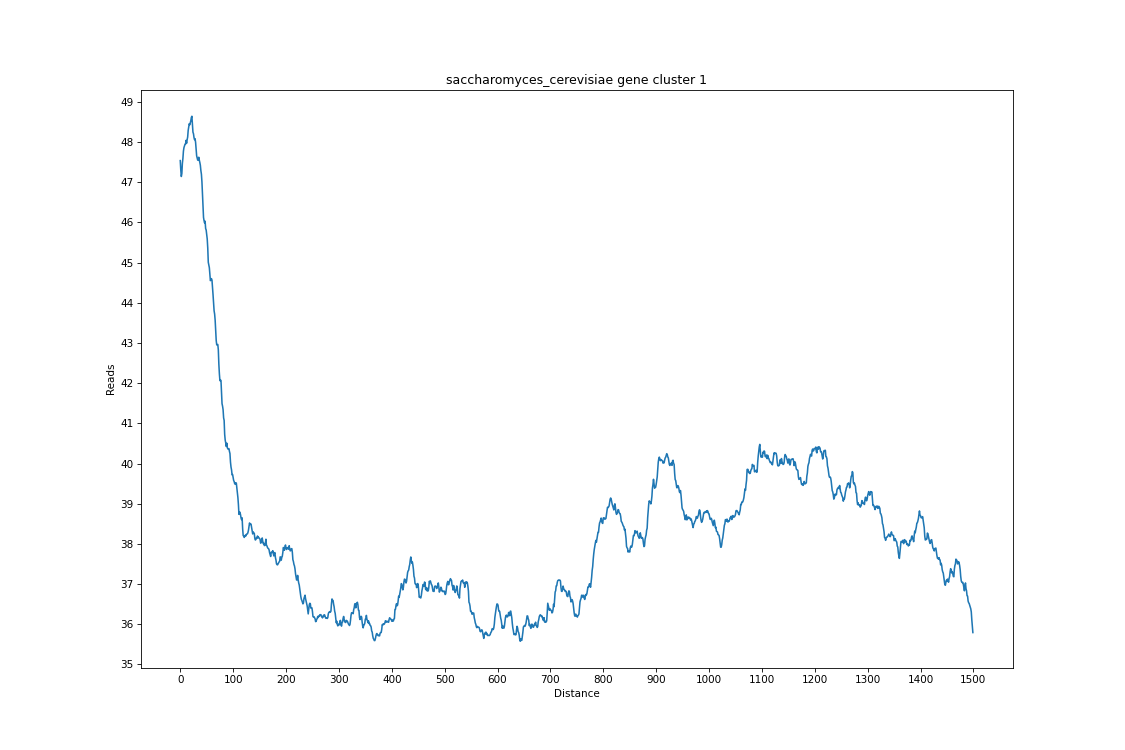
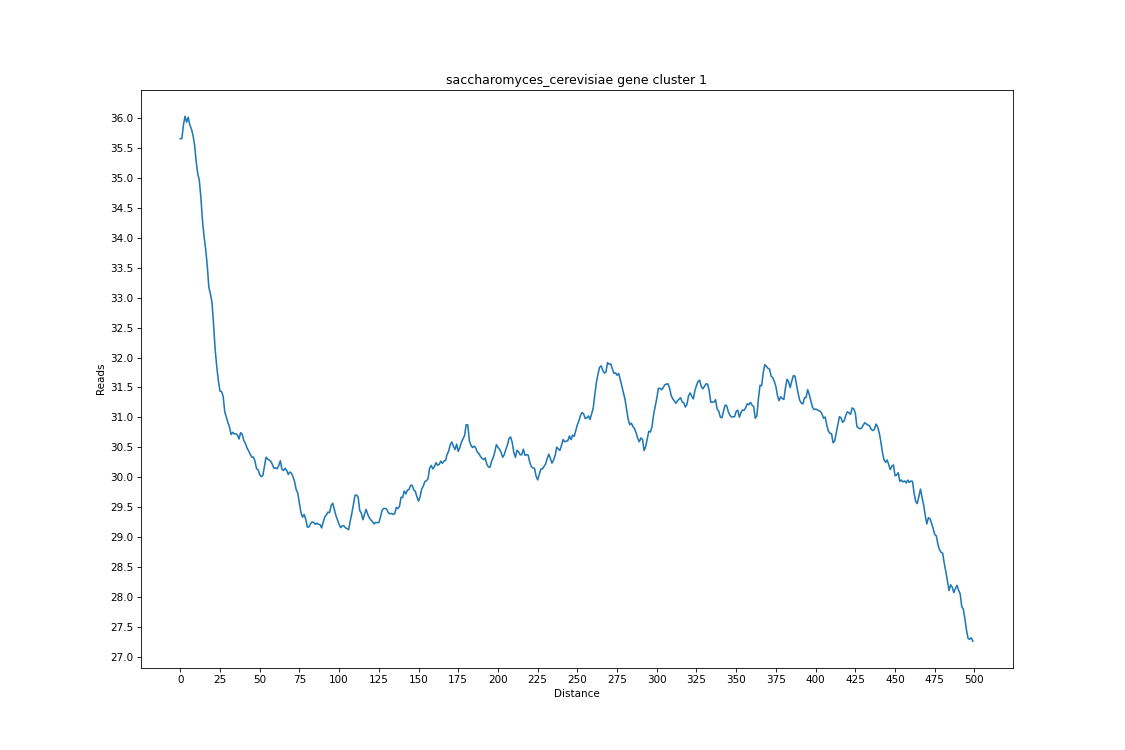
invert array

diff --git a/datapros.py b/datapros.py
@@ -33,7 +33,6 @@ def averageArray(graphArrays):
 
 
 def averageUpDown(upDownStream):
-    
     upArray = []
     downArray =[]
     for i in range(len(upDownStream[0][0])):
@@ -64,8 +63,7 @@ class metaGenePlot:
         #self.chromDict, self.romanNums = setArray(self.gff, self.feature)
 
 
-    #build chromosome arrays from gff 
-   
+    #build chromosome arrays from gff
     def setArray(self):
         numArrays= 0 
         maxLength = 0 #add maxLength for each unique chrom 
@@ -76,10 +74,8 @@ class metaGenePlot:
             for line in gffFile:
                 cols = line.split('\t')
                 #print(cols)
-                if len(cols)>1 and  (cols[6]=='+' ):#or cols[6] == '-') : # and cols[6]=='+' #skip the rows at the bottom and check if the sequence is read forwards
-                    #print(cols[3], cols[4])
-                    # if cols[0][3] == 'I':
-                    #     romanNums = True
+                if len(cols)>1: #and  (cols[6]=='+' ):#or cols[6] == '-') : # and cols[6]=='+' #skip the rows at the bottom and check if the sequence is read forwards
+                    #print(cols[3], cols[4]
                     if int(cols[4]) > maxLength: #farthest poi in chromosome
                             maxLength=int(cols[4])
                     if cols[0]!= currChrom: # crhomosome number
@@ -96,7 +92,6 @@ class metaGenePlot:
 
     #populate Arrays with sam data
     def populateArray(self):
-        romanNums = False
         with open(self.sam, 'r') as samFile:
             for line in samFile:
                 cols = line.split('\t')
@@ -106,18 +101,9 @@ class metaGenePlot:
                         chrom = chrom[0:4]
                     else:
                         chrom = chrom[0:5]
-                    # try:
-                    #     int(chrom[3:])
-                    # except:
-                    #     romanNums =True
+                   
                     end = start + seqLength -1 
-                    # if self.romanNums != romanNums and romanNums == False: 
-                    #     #convert SAM chrom labels from int to roman
-                    #     chrom = intToRoman(chrom[3:])
-                    # elif self.romanNums != romanNums  and romanNums == True: 
-                    #     #convert SAM chrom labels from roman to int
-                    #     chrom = romanToInt(chrom[3:])
-
+                  
                         
                     for i in range(start-1, end):
                         self.chromDict[chrom][i]+= 1
@@ -139,7 +125,7 @@ class metaGenePlot:
             for line in gffFile:
                 cols = line.split('\t')
 
-                if len(cols)>1  and cols[2]== self.feature and (cols[6]=='+' ):#or cols[6] == '-'): # #if feature of interest 
+                if len(cols)>1  and cols[2]== self.feature:  #and (cols[6]=='+' ):#or cols[6] == '-'): # #if feature of interest 
                     currArray=[]
                     dwnStream = []
                     upStream =[]
@@ -157,11 +143,15 @@ class metaGenePlot:
                         try:
                             upStream.append(self.chromDict[chrom][i])
                         except: 
-                            upStream.append(0)
+                           upStream.append(0)
 
-                    # if  cols[6]=='-':
-                    #     currArray = invertArray(currArray)
-
+                    if  cols[6]=='-':
+                        print('original ', currArray)
+                        currArray = invertArray(currArray)
+                        temp= invertArray(dwnStream)
+                        dwnStream = invertArray(upStream)
+                        upStream = temp
+                        print('inverted ',currArray )
                     upDownStream.append((dwnStream,upStream))
                     gffArrays.append(currArray)#add to array of arrays 
                     names.append(cols[8])

diff --git a/test.py b/test.py
@@ -10,8 +10,8 @@ from datapros import invertArray
 
 
 test = metaGenePlot('RPKM_alignments.sam','saccharomyces_cerevisiae.gff','gene', 0 ) #single para, if single = true - provide input for left or right end (if exists)
-test.plot( 'auto',1500)
-
+test.plot( 4,500)
+ 
 # labels = []
 # with open('SRR20274751_HUMAN.sam', 'r') as samFile:
 #             for line in samFile:
